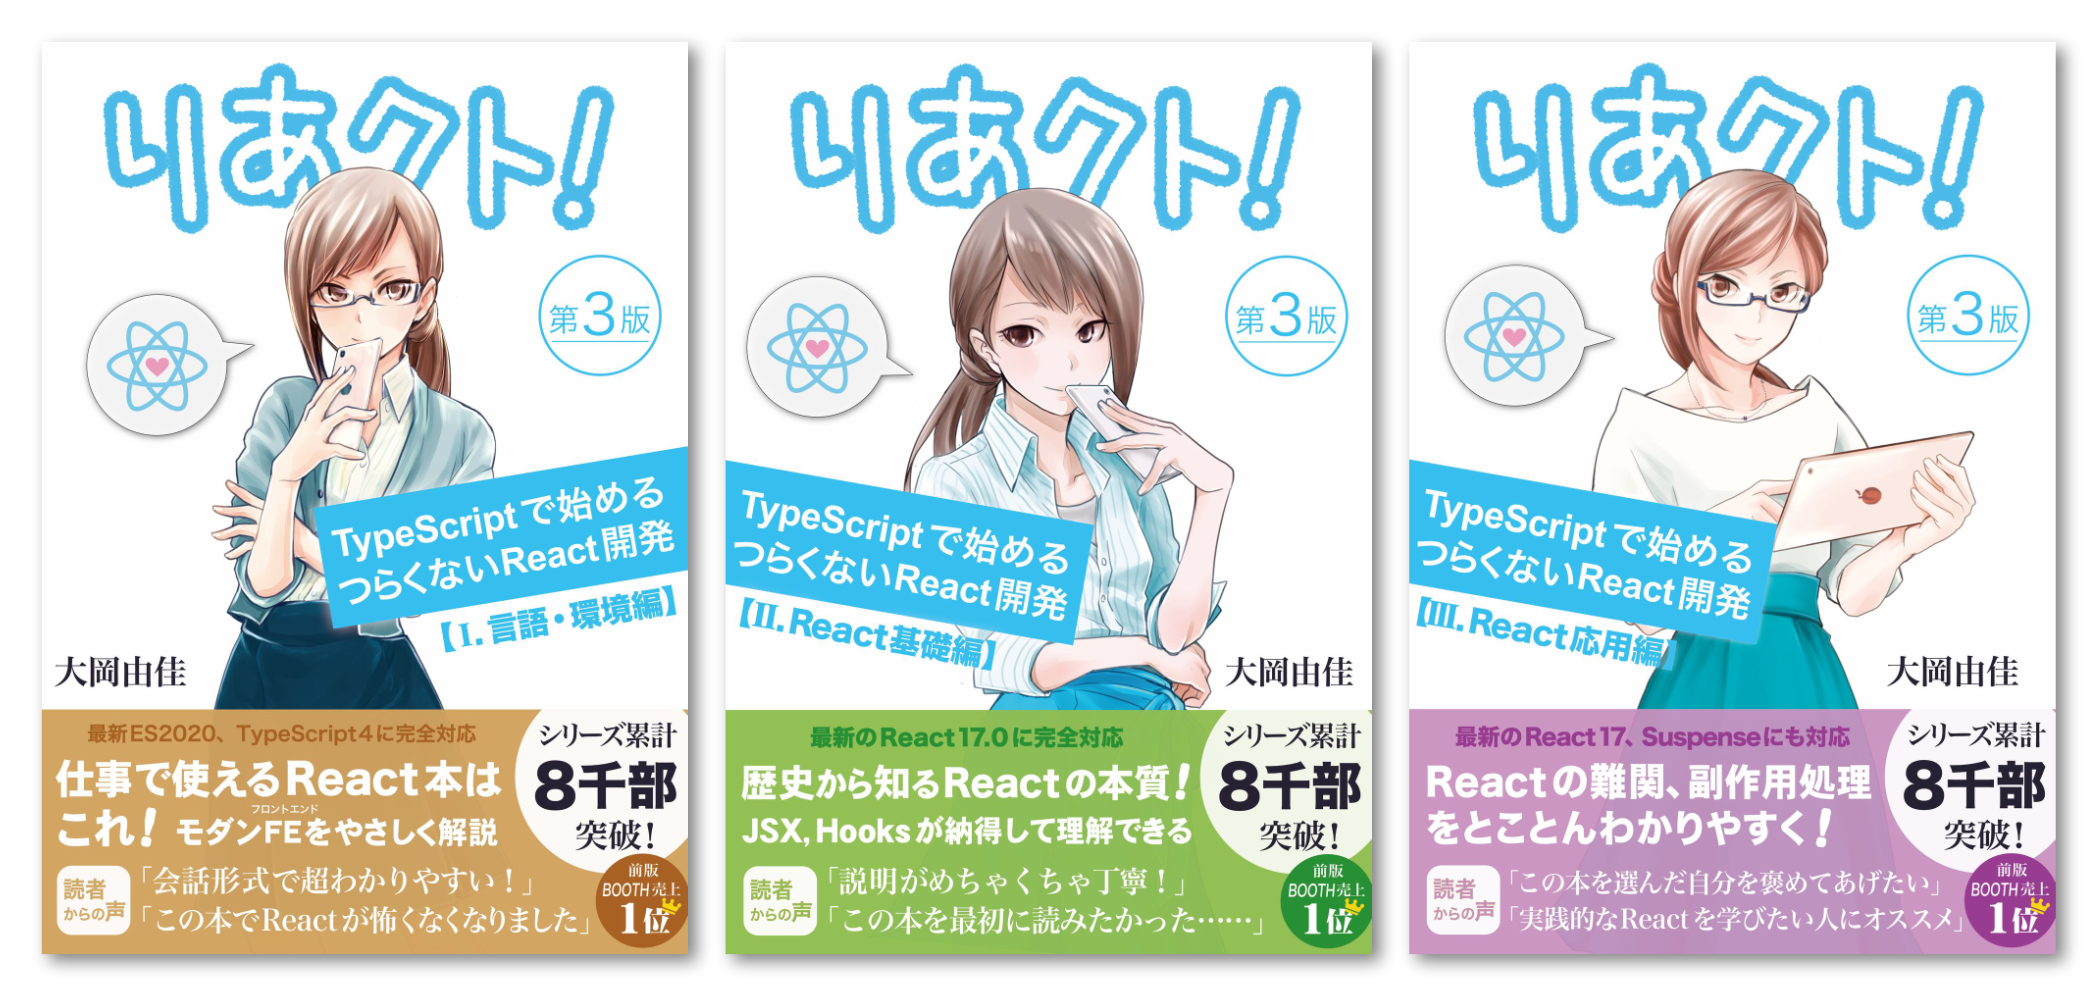
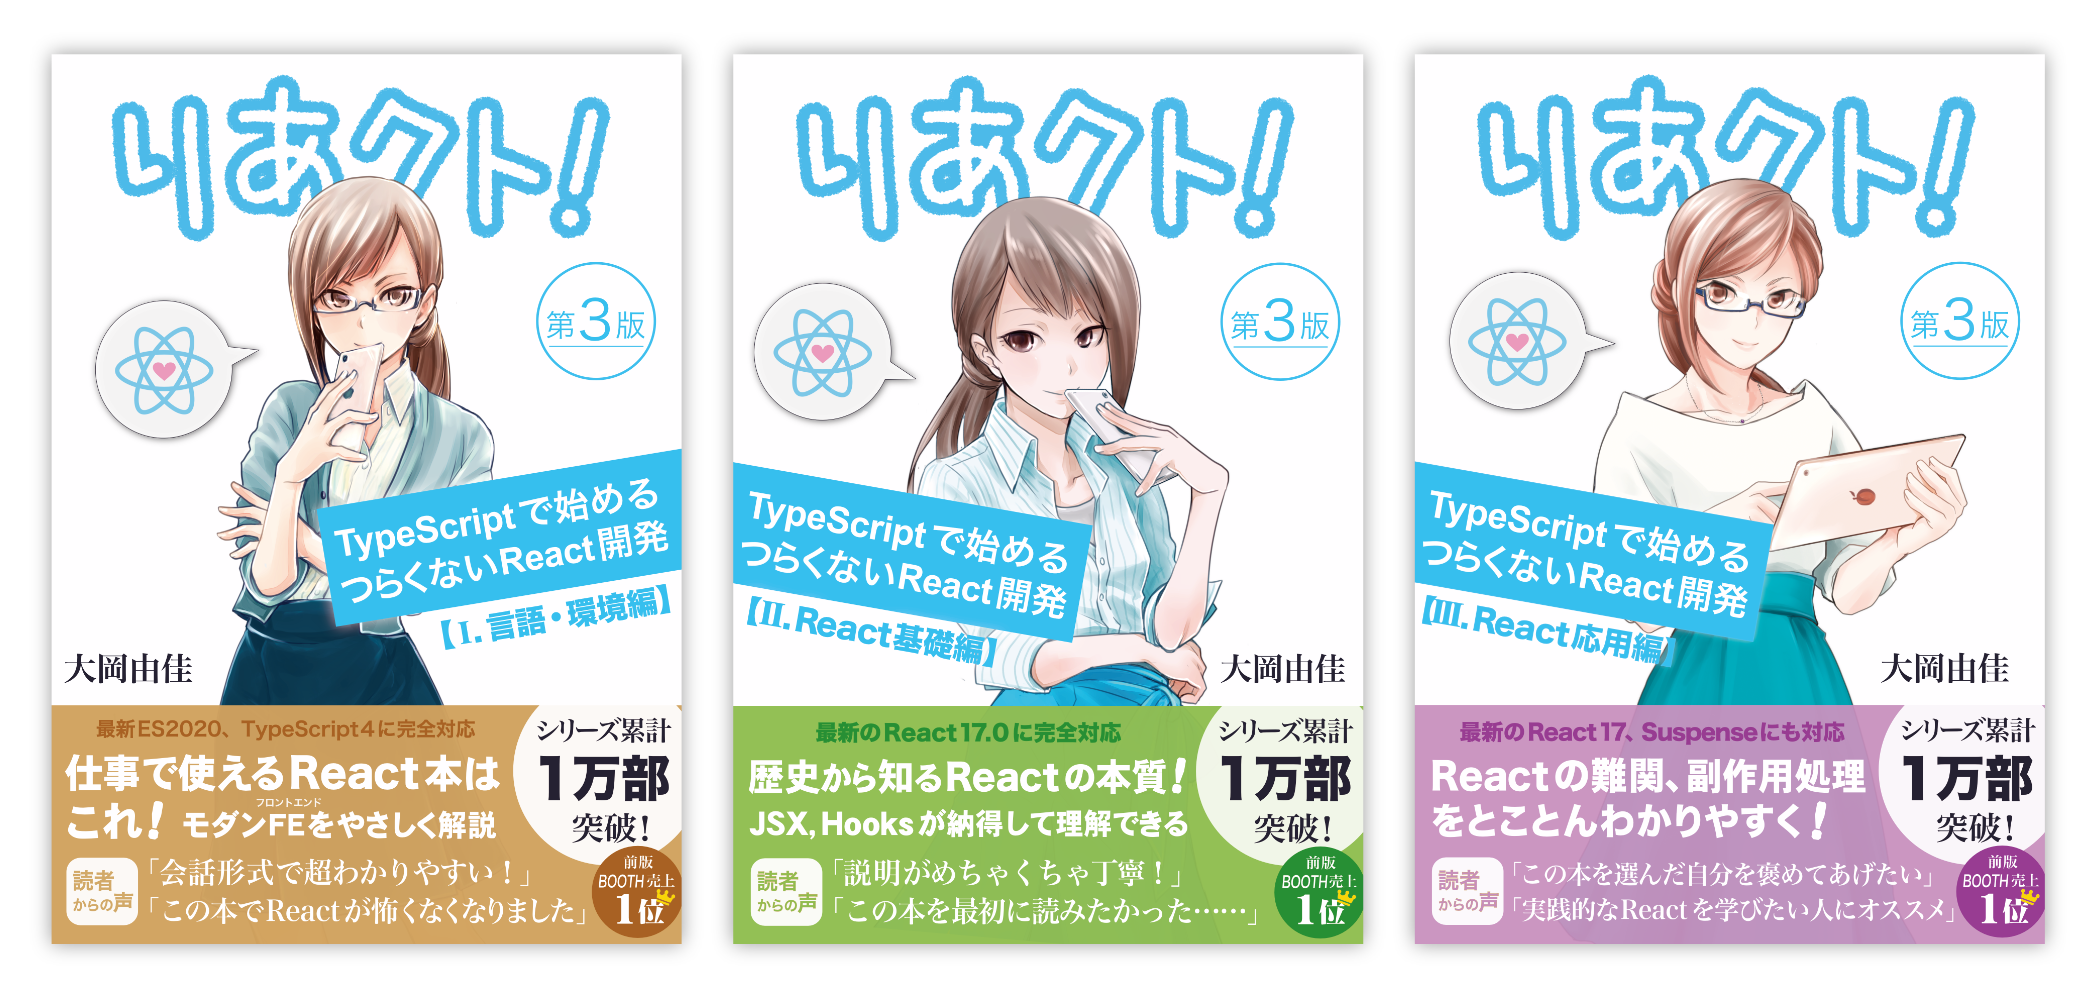
update cover image

Changed region(s): [[0.0, 0.031, 0.9905, 0.992], [0.7429, 0.465, 0.7738, 0.496]]

diff --git a/README.md b/README.md
@@ -17,7 +17,7 @@
 
 ### 概要
 
-本書『りあクト！ TypeScript で始めるつらくない React 開発』は[技術書典 5](https://techbookfest.org/event/tbf05) にて初版、[技術書典 6](https://techbookfest.org/event/tbf06) にて第 2 版が頒布され、その後の続編を加えるとシリーズ累計で 6,000 部を売り上げた、React の本格的な入門書『りあクト！ TypeScript で始めるつらくない React 開発』の改訂第 3 版です。
+本書『りあクト！ TypeScript で始めるつらくない React 開発』は[技術書典 5](https://techbookfest.org/event/tbf05) にて初版、[技術書典 6](https://techbookfest.org/event/tbf06) にて第 2 版が頒布され、その後の続編を加えると同人では異例のシリーズ累計 1 万部を売り上げた、React の本格的な入門書『りあクト！ TypeScript で始めるつらくない React 開発』の改訂第 3 版です。
 
 各版の差分の概略については [CHANGELOG](./CHANGELOG.md) をご覧ください。
 
